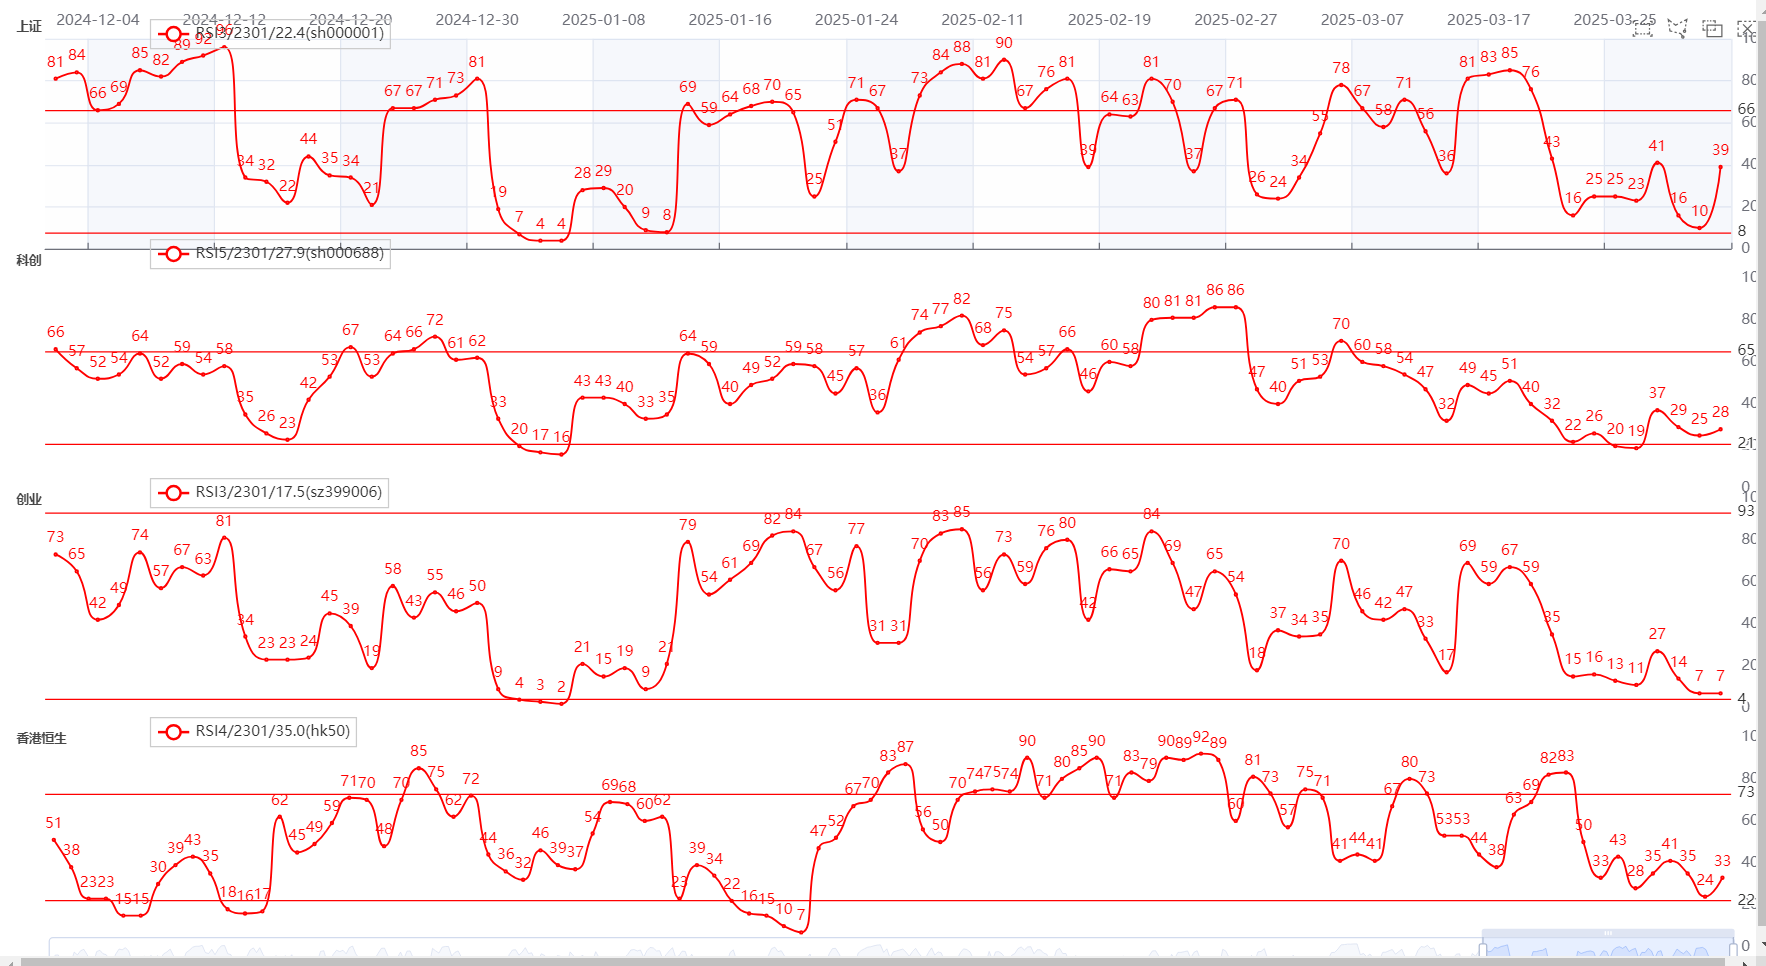
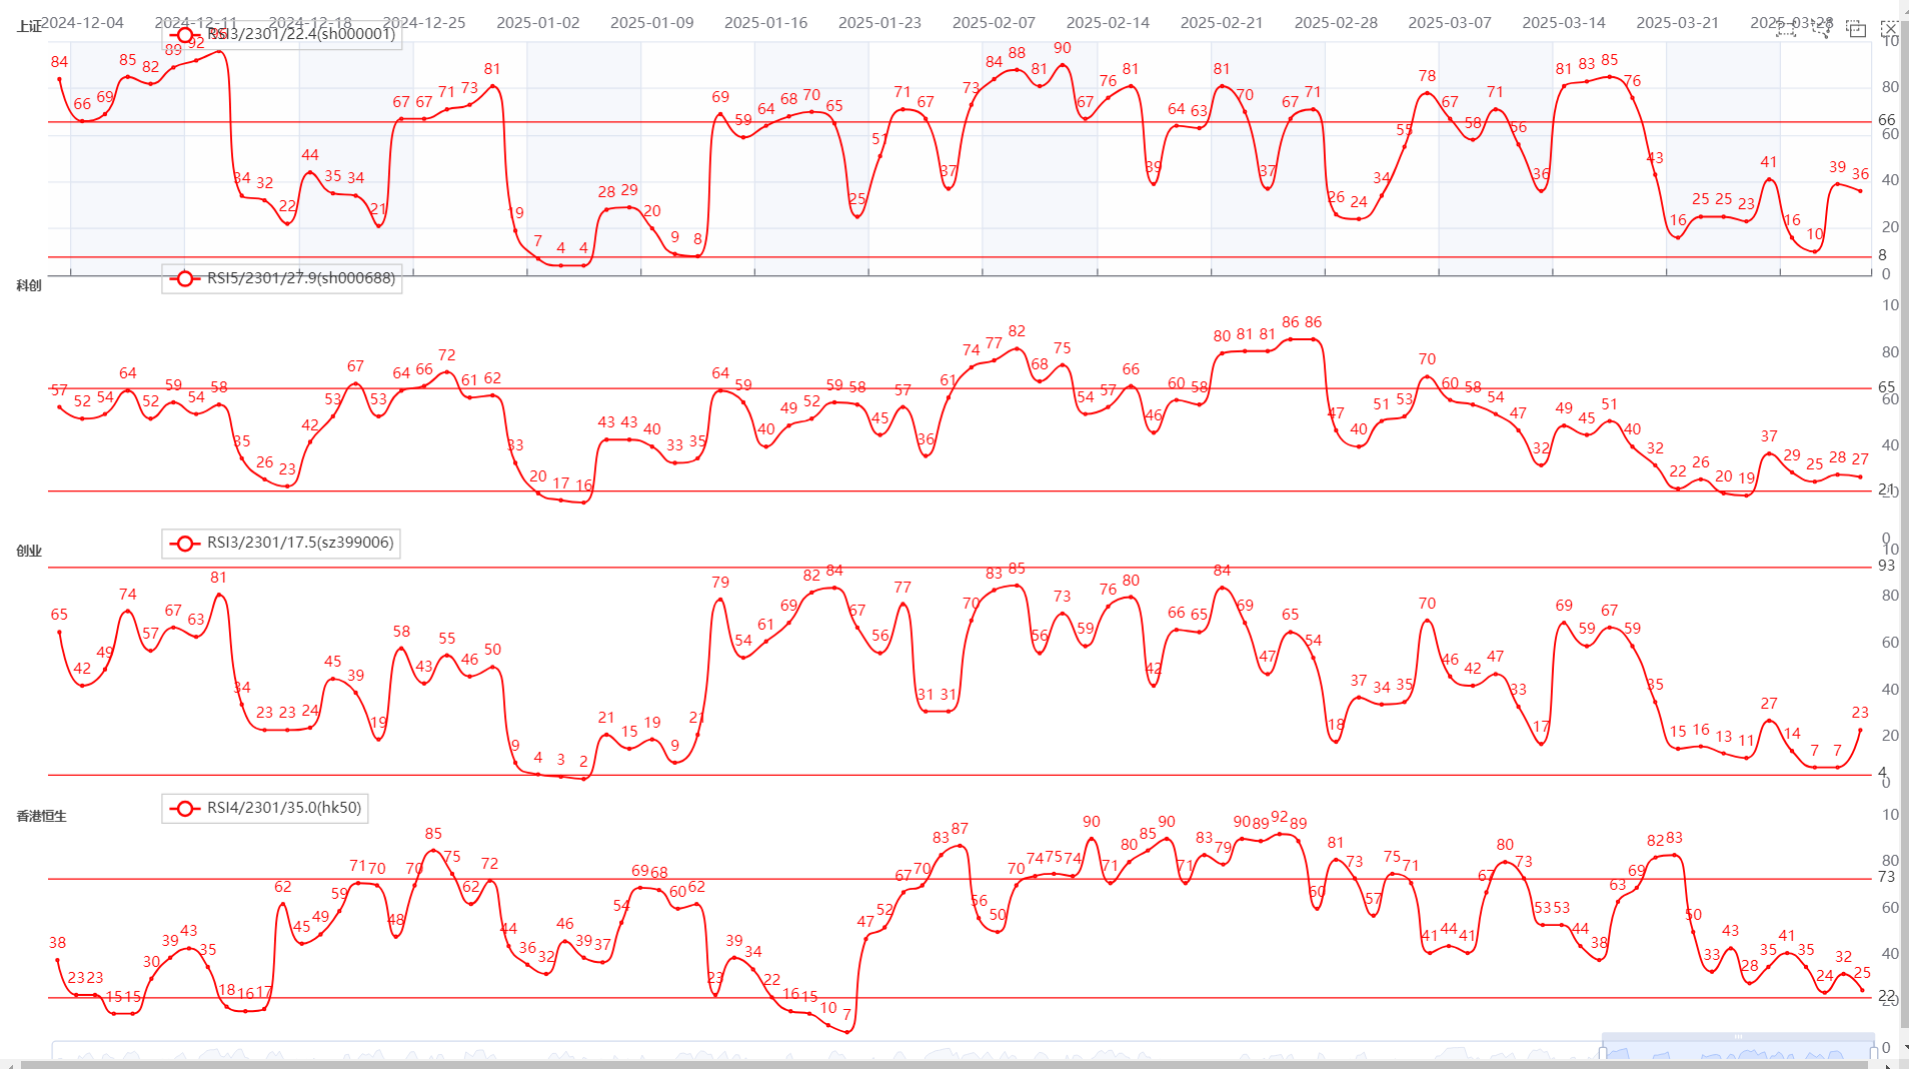
20250402

diff --git a/index_cn.html b/index_cn.html
@@ -13,11 +13,11 @@
     </style>
 </head>
 <body onresize="resizeFresh()"  >
-    <div id="652515256e104c2b8e981a5557f5eb19" class="chart-container" style="width:100%; height:100%; "></div>
+    <div id="2df7fb272e524468af770205cd9146b6" class="chart-container" style="width:100%; height:100%; "></div>
     <script>
-        var chart_652515256e104c2b8e981a5557f5eb19 = echarts.init(
-            document.getElementById('652515256e104c2b8e981a5557f5eb19'), 'white', {renderer: 'canvas'});
-        var option_652515256e104c2b8e981a5557f5eb19 = {
+        var chart_2df7fb272e524468af770205cd9146b6 = echarts.init(
+            document.getElementById('2df7fb272e524468af770205cd9146b6'), 'white', {renderer: 'canvas'});
+        var option_2df7fb272e524468af770205cd9146b6 = {
     "animation": true,
     "animationThreshold": 2000,
     "animationDuration": 1000,
@@ -2164,6 +2164,10 @@
                 [
                     "2025-04-01",
                     39.0
+                ],
+                [
+                    "2025-04-02",
+                    36.0
                 ]
             ],
             "hoverAnimation": false,
@@ -4344,6 +4348,10 @@
                 [
                     "2025-04-01",
                     28.0
+                ],
+                [
+                    "2025-04-02",
+                    27.0
                 ]
             ],
             "hoverAnimation": false,
@@ -6524,6 +6532,10 @@
                 [
                     "2025-04-01",
                     7.0
+                ],
+                [
+                    "2025-04-02",
+                    23.0
                 ]
             ],
             "hoverAnimation": false,
@@ -6594,96 +6606,92 @@
             "step": false,
             "data": [
                 [
-                    "2022-08-23",
-                    0.0
-                ],
-                [
                     "2022-08-24",
-                    0.0
+                    100.0
                 ],
                 [
                     "2022-08-25",
-                    50.0
+                    100.0
                 ],
                 [
                     "2022-08-26",
-                    58.0
+                    100.0
                 ],
                 [
                     "2022-08-29",
-                    50.0
+                    92.0
                 ],
                 [
                     "2022-08-30",
-                    46.0
+                    88.0
                 ],
                 [
                     "2022-08-31",
-                    46.0
+                    88.0
                 ],
                 [
                     "2022-09-01",
-                    27.0
+                    61.0
                 ],
                 [
                     "2022-09-02",
-                    22.0
+                    53.0
                 ],
                 [
                     "2022-09-05",
-                    16.0
+                    41.0
                 ],
                 [
                     "2022-09-06",
-                    15.0
+                    40.0
                 ],
                 [
                     "2022-09-07",
-                    12.0
+                    31.0
                 ],
                 [
                     "2022-09-08",
-                    8.0
+                    23.0
                 ],
                 [
                     "2022-09-09",
-                    54.0
+                    60.0
                 ],
                 [
                     "2022-09-13",
-                    52.0
+                    57.0
                 ],
                 [
                     "2022-09-14",
-                    29.0
+                    32.0
                 ],
                 [
                     "2022-09-15",
-                    35.0
+                    39.0
                 ],
                 [
                     "2022-09-16",
-                    28.0
+                    31.0
                 ],
                 [
                     "2022-09-19",
-                    22.0
+                    24.0
                 ],
                 [
                     "2022-09-20",
-                    42.0
+                    43.0
                 ],
                 [
                     "2022-09-21",
-                    27.0
+                    28.0
                 ],
                 [
                     "2022-09-22",
-                    19.0
+                    20.0
                 ],
                 [
                     "2022-09-23",
-                    15.0
+                    16.0
                 ],
                 [
                     "2022-09-26",
@@ -6691,7 +6699,7 @@
                 ],
                 [
                     "2022-09-27",
-                    14.0
+                    15.0
                 ],
                 [
                     "2022-09-28",
@@ -9155,7 +9163,11 @@
                 ],
                 [
                     "2025-04-01",
-                    33.0
+                    32.0
+                ],
+                [
+                    "2025-04-02",
+                    25.0
                 ]
             ],
             "hoverAnimation": false,
@@ -9907,7 +9919,8 @@
                 "2025-03-27",
                 "2025-03-28",
                 "2025-03-31",
-                "2025-04-01"
+                "2025-04-01",
+                "2025-04-02"
             ]
         },
         {
@@ -10458,7 +10471,8 @@
                 "2025-03-27",
                 "2025-03-28",
                 "2025-03-31",
-                "2025-04-01"
+                "2025-04-01",
+                "2025-04-02"
             ]
         },
         {
@@ -11009,7 +11023,8 @@
                 "2025-03-27",
                 "2025-03-28",
                 "2025-03-31",
-                "2025-04-01"
+                "2025-04-01",
+                "2025-04-02"
             ]
         },
         {
@@ -11033,7 +11048,6 @@
                 }
             },
             "data": [
-                "2022-08-23",
                 "2022-08-24",
                 "2022-08-25",
                 "2022-08-26",
@@ -11673,7 +11687,8 @@
                 "2025-03-27",
                 "2025-03-28",
                 "2025-03-31",
-                "2025-04-01"
+                "2025-04-01",
+                "2025-04-02"
             ]
         }
     ],
@@ -12025,9 +12040,9 @@
         }
     ]
 };
-        chart_652515256e104c2b8e981a5557f5eb19.setOption(option_652515256e104c2b8e981a5557f5eb19);
+        chart_2df7fb272e524468af770205cd9146b6.setOption(option_2df7fb272e524468af770205cd9146b6);
             window.addEventListener('resize', function(){
-                chart_652515256e104c2b8e981a5557f5eb19.resize();
+                chart_2df7fb272e524468af770205cd9146b6.resize();
             })
     </script>
     
